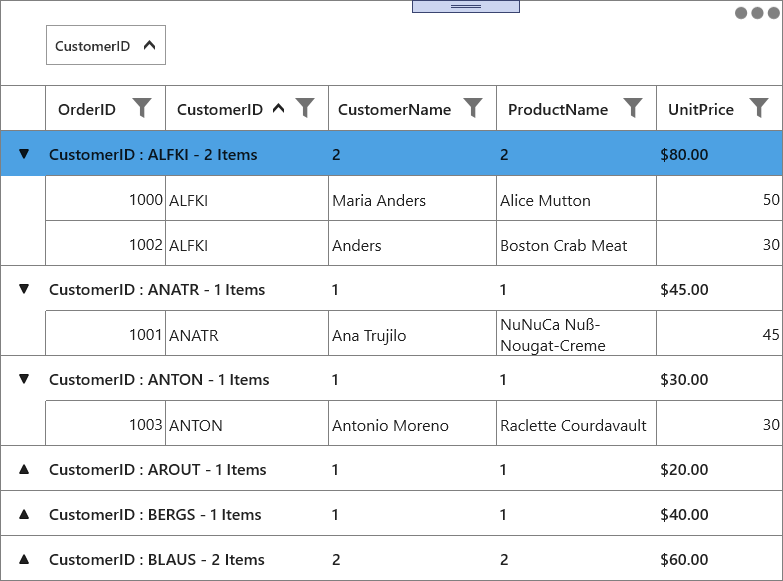
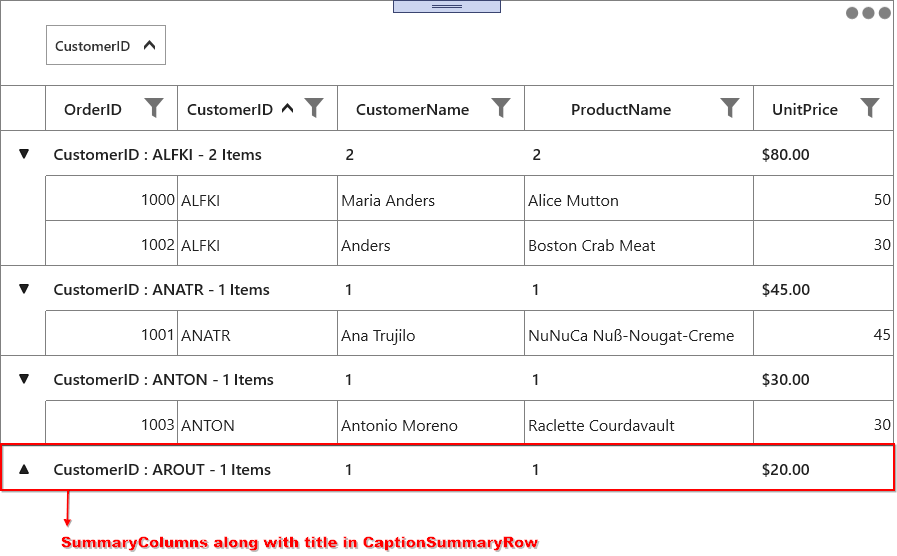
WPF-49853 Make the image changes for summary with title

diff --git a/uwp/DataGrid/Summaries.md b/uwp/DataGrid/Summaries.md
@@ -75,13 +75,11 @@ In the below code snippet, summary is defined for `UnitPrice` and `ProductName` 
 
 ### Displaying summary columns along with title
 
-You can display summary information along with title by setting [GridSummaryRow.ShowSummaryInRow](https://help.syncfusion.com/cr/cref_files/uwp/Syncfusion.SfGrid.UWP~Syncfusion.UI.Xaml.Grid.GridSummaryRow~ShowSummaryInRow.html) to `false` and setting the `GridSummaryRow.TitleColumnCount` for how many columns should be shows title and other defined columns  shows columns summary. 
+You can display summary information along with title by setting [GridSummaryRow.ShowSummaryInRow](https://help.syncfusion.com/cr/cref_files/uwp/Syncfusion.SfGrid.UWP~Syncfusion.UI.Xaml.Grid.GridSummaryRow~ShowSummaryInRow.html) to `false` and setting the `GridSummaryRow.TitleColumnCount` for how many columns should be shows title and other defined columns shows summary columns. 
 
 Refer [Defining summary for column](#defining-summary-for-column) section to know more about how to defining summary columns.
 
 You have to define [GridSummaryRow.Title](https://help.syncfusion.com/cr/cref_files/uwp/Syncfusion.SfGrid.UWP~Syncfusion.UI.Xaml.Grid.GridSummaryRow~Title.html) based on [GridSummaryColumn.Name](https://help.syncfusion.com/cr/cref_files/uwp/Syncfusion.SfGrid.UWP~Syncfusion.UI.Xaml.Grid.GridSummaryColumn~Name.html) property to format summary columns values in defined title columns.
-
-You have to setting the `GridSummaryRow.TitleColumnCount` to how many columns should be display the title and other defined column shows the summary for defining summary columns.
 
 Refer [Formatting Summary](#formatting-summary) section to know more about how to format summary.
 
@@ -368,13 +366,11 @@ this.dataGrid.GroupSummaryRows.Add(new GridSummaryRow()
 
 ### Displaying summary columns along with title
 
-You can display summary information along with title by setting [GridSummaryRow.ShowSummaryInRow](https://help.syncfusion.com/cr/cref_files/uwp/Syncfusion.SfGrid.UWP~Syncfusion.UI.Xaml.Grid.GridSummaryRow~ShowSummaryInRow.html) to `false` and setting the `GridSummaryRow.TitleColumnCount` for how many columns should be shows title and other defined columns  shows columns summary. 
+You can display summary information along with title by setting [GridSummaryRow.ShowSummaryInRow](https://help.syncfusion.com/cr/cref_files/uwp/Syncfusion.SfGrid.UWP~Syncfusion.UI.Xaml.Grid.GridSummaryRow~ShowSummaryInRow.html) to `false` and setting the `GridSummaryRow.TitleColumnCount` for how many columns should be shows title and other defined columns  shows summary columns. 
 
 Refer [Defining summary for column](#defining-summary-for-column-1) section to know more about how to defining summary columns.
 
 You have to define [GridSummaryRow.Title](https://help.syncfusion.com/cr/cref_files/uwp/Syncfusion.SfGrid.UWP~Syncfusion.UI.Xaml.Grid.GridSummaryRow~Title.html) based on [GridSummaryColumn.Name](https://help.syncfusion.com/cr/cref_files/uwp/Syncfusion.SfGrid.UWP~Syncfusion.UI.Xaml.Grid.GridSummaryColumn~Name.html) property to format summary columns values in defined title columns.
-
-You have to setting the `GridSummaryRow.TitleColumnCount` to how many columns should be display the title and other defined column shows the summary for defining summary columns.
 
 Refer [Formatting Summary](#formatting-summary) section to know more about how to format summary.
 
@@ -611,13 +607,11 @@ this.dataGrid.CaptionSummaryRow = new GridSummaryRow()
 
 ### Displaying summary columns along with title
 
-You can display summary information along with title by setting [GridSummaryRow.ShowSummaryInRow](https://help.syncfusion.com/cr/cref_files/uwp/Syncfusion.SfGrid.UWP~Syncfusion.UI.Xaml.Grid.GridSummaryRow~ShowSummaryInRow.html) to `false` and setting the `GridSummaryRow.TitleColumnCount` for how many columns should be shows title and other defined columns  shows columns summary. 
+You can display summary information along with title by setting [GridSummaryRow.ShowSummaryInRow](https://help.syncfusion.com/cr/cref_files/uwp/Syncfusion.SfGrid.UWP~Syncfusion.UI.Xaml.Grid.GridSummaryRow~ShowSummaryInRow.html) to `false` and setting the `GridSummaryRow.TitleColumnCount` for how many columns should be shows title and other defined columns  shows summary columns. 
 
 Refer [Defining summary for column](#defining-summary-for-column-2) section to know more about how to defining summary columns.
 
 You have to define [GridSummaryRow.Title](https://help.syncfusion.com/cr/cref_files/uwp/Syncfusion.SfGrid.UWP~Syncfusion.UI.Xaml.Grid.GridSummaryRow~Title.html) based on [GridSummaryColumn.Name](https://help.syncfusion.com/cr/cref_files/uwp/Syncfusion.SfGrid.UWP~Syncfusion.UI.Xaml.Grid.GridSummaryColumn~Name.html) property to format summary columns values in defined title columns.
-
-You have to setting the `GridSummaryRow.TitleColumnCount` to how many columns should be display the title and other defined column shows the summary for defining summary columns.
 
 Refer [Formatting Summary](#formatting-summary) section to know more about how to format summary.
 
